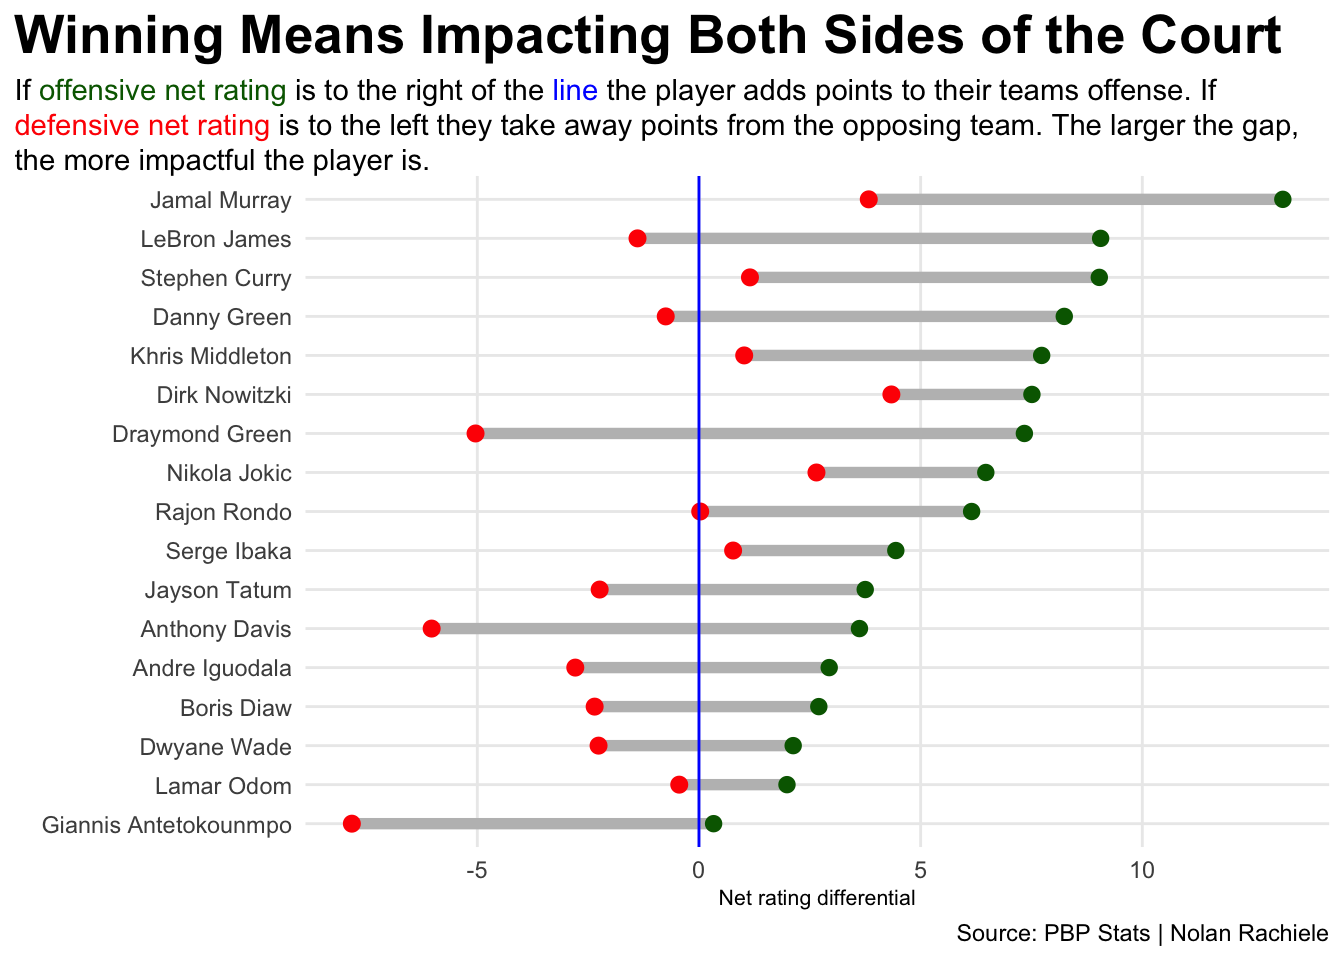
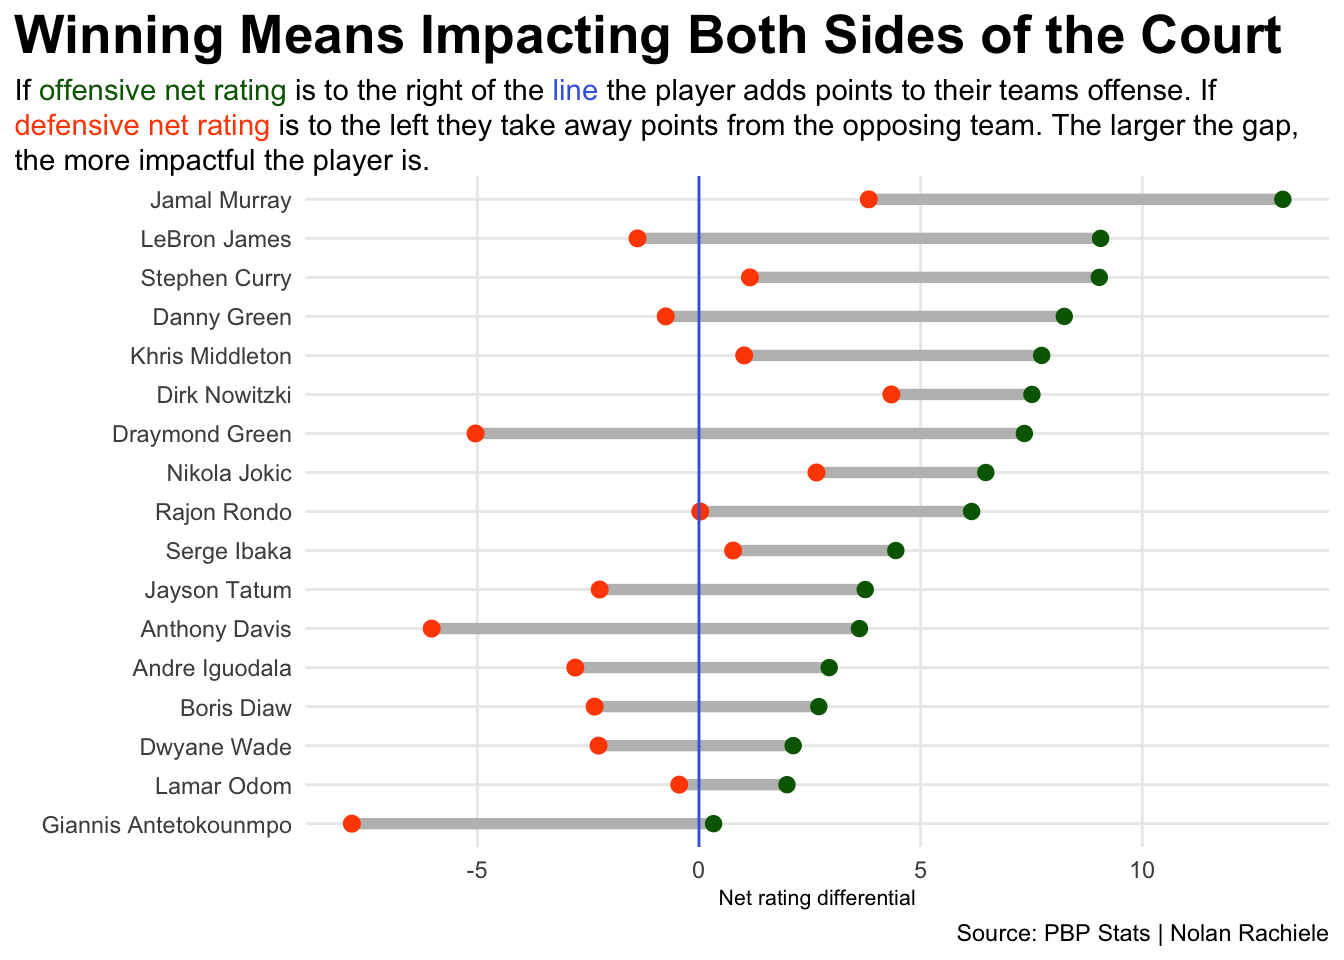
dafinalfinal

diff --git a/posts/the-biggest-playoff-risers-in-the-modern-era/index.html b/posts/the-biggest-playoff-risers-in-the-modern-era/index.html
@@ -276,7 +276,7 @@ pre > code.sourceCode > span > a:first-child::before { text-decoration: underlin
 <span id="cb1-82"><a href="#cb1-82" aria-hidden="true" tabindex="-1"></a>    <span class="fu">geom_vline</span>(<span class="at">xintercept =</span> <span class="dv">0</span>,<span class="at">color=</span><span class="st">"lightgrey"</span>) <span class="sc">+</span> </span>
 <span id="cb1-83"><a href="#cb1-83" aria-hidden="true" tabindex="-1"></a>  <span class="fu">geom_hline</span>(<span class="at">yintercept =</span> <span class="dv">0</span>,<span class="at">color=</span><span class="st">"lightgrey"</span>) <span class="sc">+</span></span>
 <span id="cb1-84"><a href="#cb1-84" aria-hidden="true" tabindex="-1"></a>  <span class="fu">labs</span>(</span>
-<span id="cb1-85"><a href="#cb1-85" aria-hidden="true" tabindex="-1"></a>    <span class="at">x=</span><span class="st">" Impact on the game"</span>,</span>
+<span id="cb1-85"><a href="#cb1-85" aria-hidden="true" tabindex="-1"></a>    <span class="at">x=</span><span class="st">" Impact on the Game"</span>,</span>
 <span id="cb1-86"><a href="#cb1-86" aria-hidden="true" tabindex="-1"></a>    <span class="at">y=</span><span class="st">"Usage Difference from Playoffs to Regular Season"</span>, </span>
 <span id="cb1-87"><a href="#cb1-87" aria-hidden="true" tabindex="-1"></a>    <span class="at">title=</span><span class="st">"What Players Increase Their Output in the Playoffs?"</span>, </span>
 <span id="cb1-88"><a href="#cb1-88" aria-hidden="true" tabindex="-1"></a>    <span class="at">subtitle=</span><span class="st">"The players who have seen the biggest production increase from the regular season to the post season</span><span class="sc">\n</span><span class="st">have resulted in deep playoff runs. "</span>, </span>
@@ -343,13 +343,13 @@ pre > code.sourceCode > span > a:first-child::before { text-decoration: underlin
 <span id="cb2-36"><a href="#cb2-36" aria-hidden="true" tabindex="-1"></a>    <span class="at">size =</span> <span class="dv">2</span>,</span>
 <span id="cb2-37"><a href="#cb2-37" aria-hidden="true" tabindex="-1"></a>    <span class="at">colour =</span> <span class="st">"grey"</span>,</span>
 <span id="cb2-38"><a href="#cb2-38" aria-hidden="true" tabindex="-1"></a>    <span class="at">colour_x =</span> <span class="st">"#006400"</span>,</span>
-<span id="cb2-39"><a href="#cb2-39" aria-hidden="true" tabindex="-1"></a>    <span class="at">colour_xend =</span> <span class="st">"red"</span>)<span class="sc">+</span></span>
-<span id="cb2-40"><a href="#cb2-40" aria-hidden="true" tabindex="-1"></a>   <span class="fu">geom_vline</span>(<span class="at">xintercept =</span> <span class="dv">0</span>,<span class="at">color=</span><span class="st">"blue"</span>)<span class="sc">+</span></span>
+<span id="cb2-39"><a href="#cb2-39" aria-hidden="true" tabindex="-1"></a>    <span class="at">colour_xend =</span> <span class="st">"#FF4D00"</span>)<span class="sc">+</span></span>
+<span id="cb2-40"><a href="#cb2-40" aria-hidden="true" tabindex="-1"></a>   <span class="fu">geom_vline</span>(<span class="at">xintercept =</span> <span class="dv">0</span>,<span class="at">color=</span><span class="st">"#4169e1"</span>)<span class="sc">+</span></span>
 <span id="cb2-41"><a href="#cb2-41" aria-hidden="true" tabindex="-1"></a>  <span class="fu">labs</span>(</span>
 <span id="cb2-42"><a href="#cb2-42" aria-hidden="true" tabindex="-1"></a>    <span class="at">x=</span><span class="st">"Net rating differential"</span>,</span>
 <span id="cb2-43"><a href="#cb2-43" aria-hidden="true" tabindex="-1"></a>    <span class="at">y=</span><span class="st">""</span>, </span>
 <span id="cb2-44"><a href="#cb2-44" aria-hidden="true" tabindex="-1"></a>    <span class="at">title=</span><span class="st">"Winning Means Impacting Both Sides of the Court"</span>, </span>
-<span id="cb2-45"><a href="#cb2-45" aria-hidden="true" tabindex="-1"></a>    <span class="at">subtitle =</span> <span class="st">"If &lt;span style = 'color:#006400;'&gt;offensive net rating&lt;/span&gt; is to the right of the &lt;span style = 'color:blue;'&gt;line&lt;/span&gt; the player adds points to their teams offense. If &lt;span style = 'color:red;'&gt;defensive net rating&lt;/span&gt; is to the left they take away points from the opposing team. The larger the gap, the more impactful the player is."</span>,</span>
+<span id="cb2-45"><a href="#cb2-45" aria-hidden="true" tabindex="-1"></a>    <span class="at">subtitle =</span> <span class="st">"If &lt;span style = 'color:#006400;'&gt;offensive net rating&lt;/span&gt; is to the right of the &lt;span style = 'color:#4169e1;'&gt;line&lt;/span&gt; the player adds points to their teams offense. If &lt;span style = 'color:#FF4D00;'&gt;defensive net rating&lt;/span&gt; is to the left they take away points from the opposing team. The larger the gap, the more impactful the player is."</span>,</span>
 <span id="cb2-46"><a href="#cb2-46" aria-hidden="true" tabindex="-1"></a>    <span class="at">caption=</span><span class="st">"Source: PBP Stats | Nolan Rachiele"</span></span>
 <span id="cb2-47"><a href="#cb2-47" aria-hidden="true" tabindex="-1"></a>    ) <span class="sc">+</span></span>
 <span id="cb2-48"><a href="#cb2-48" aria-hidden="true" tabindex="-1"></a>  <span class="fu">theme_minimal</span>() <span class="sc">+</span> </span>
@@ -420,15 +420,15 @@ pre > code.sourceCode > span > a:first-child::before { text-decoration: underlin
 <span id="cb3-42"><a href="#cb3-42" aria-hidden="true" tabindex="-1"></a>champ <span class="ot">&lt;-</span> top10 <span class="sc">|&gt;</span> <span class="fu">filter</span>(Player <span class="sc">%in%</span> <span class="fu">c</span>(<span class="st">"Draymond Green"</span>,<span class="st">"Stephen Curry"</span>,<span class="st">"Kobe Bryant"</span>,<span class="st">"Danny Green"</span>,<span class="st">"Dirk Nowitzki"</span>,<span class="st">"Lamar Odom"</span>,<span class="st">"Andre Iguodala"</span>))</span>
 <span id="cb3-43"><a href="#cb3-43" aria-hidden="true" tabindex="-1"></a></span>
 <span id="cb3-44"><a href="#cb3-44" aria-hidden="true" tabindex="-1"></a><span class="fu">ggplot</span>() <span class="sc">+</span> </span>
-<span id="cb3-45"><a href="#cb3-45" aria-hidden="true" tabindex="-1"></a>  <span class="fu">geom_bar</span>(<span class="at">data=</span>top10, <span class="fu">aes</span>(<span class="at">x=</span><span class="fu">reorder</span>(Player, Expectedwin), <span class="at">weight=</span>Expectedwin),<span class="at">fill=</span><span class="st">"darkgrey"</span>) <span class="sc">+</span></span>
+<span id="cb3-45"><a href="#cb3-45" aria-hidden="true" tabindex="-1"></a>  <span class="fu">geom_bar</span>(<span class="at">data=</span>top10, <span class="fu">aes</span>(<span class="at">x=</span><span class="fu">reorder</span>(Player, Expectedwin), <span class="at">weight=</span>Expectedwin),<span class="at">fill=</span><span class="st">"lightgrey"</span>) <span class="sc">+</span></span>
 <span id="cb3-46"><a href="#cb3-46" aria-hidden="true" tabindex="-1"></a>  <span class="fu">geom_bar</span>(<span class="at">data=</span>champ, <span class="fu">aes</span>(<span class="at">x=</span><span class="fu">reorder</span>(Player, Expectedwin), <span class="at">weight=</span>Expectedwin), <span class="at">fill=</span><span class="st">"#AA8833"</span>) <span class="sc">+</span></span>
 <span id="cb3-47"><a href="#cb3-47" aria-hidden="true" tabindex="-1"></a>  <span class="fu">coord_flip</span>()<span class="sc">+</span></span>
-<span id="cb3-48"><a href="#cb3-48" aria-hidden="true" tabindex="-1"></a>  <span class="fu">geom_hline</span>(<span class="at">yintercept =</span> <span class="fl">1.001567398</span>,<span class="at">color=</span><span class="st">"red"</span>) <span class="sc">+</span></span>
+<span id="cb3-48"><a href="#cb3-48" aria-hidden="true" tabindex="-1"></a>  <span class="fu">geom_hline</span>(<span class="at">yintercept =</span> <span class="fl">1.001567398</span>,<span class="at">color=</span><span class="st">"#E11218"</span>,<span class="at">size=</span><span class="fl">1.4</span>) <span class="sc">+</span></span>
 <span id="cb3-49"><a href="#cb3-49" aria-hidden="true" tabindex="-1"></a>  <span class="fu">labs</span>(</span>
 <span id="cb3-50"><a href="#cb3-50" aria-hidden="true" tabindex="-1"></a>    <span class="at">x=</span><span class="st">""</span>, </span>
 <span id="cb3-51"><a href="#cb3-51" aria-hidden="true" tabindex="-1"></a>    <span class="at">y=</span><span class="st">"Expected wins added"</span>, </span>
 <span id="cb3-52"><a href="#cb3-52" aria-hidden="true" tabindex="-1"></a>    <span class="at">title=</span><span class="st">"How do players net rating affect their playoff wins?"</span>, </span>
-<span id="cb3-53"><a href="#cb3-53" aria-hidden="true" tabindex="-1"></a>    <span class="at">subtitle=</span><span class="st">"The career wins added for each champion players playoff career. The &lt;span style = 'color:red;'&gt;average wins added&lt;/span&gt; for an NBA career is 1.0015.The players highlighted in gold are multiple time champions"</span>,</span>
+<span id="cb3-53"><a href="#cb3-53" aria-hidden="true" tabindex="-1"></a>    <span class="at">subtitle=</span><span class="st">"The career wins added for each champion players playoff career. The &lt;span style = 'color:#E11218;'&gt;average wins added&lt;/span&gt; for an NBA career is 1.0015.The players highlighted in gold are multiple time champions"</span>,</span>
 <span id="cb3-54"><a href="#cb3-54" aria-hidden="true" tabindex="-1"></a>    <span class="at">caption=</span><span class="st">"Source: Cleaning Glass | Nolan Rachiele"</span></span>
 <span id="cb3-55"><a href="#cb3-55" aria-hidden="true" tabindex="-1"></a>    ) <span class="sc">+</span></span>
 <span id="cb3-56"><a href="#cb3-56" aria-hidden="true" tabindex="-1"></a>  <span class="fu">theme_minimal</span>() <span class="sc">+</span> </span>

diff --git a/index.html b/index.html
@@ -200,7 +200,7 @@ window.Quarto = {
 
 <div class="quarto-listing quarto-listing-container-default" id="listing-listing">
 <div class="list quarto-listing-default">
-<div class="quarto-post image-right" data-index="0" data-categories="YmFza2V0YmFsbCUyQ25iYSUyQ3BsYXlvZmZzJTJDZmluYWxz" data-listing-date-sort="1744606800000" data-listing-file-modified-sort="1744667131810" data-listing-date-modified-sort="NaN" data-listing-reading-time-sort="8" data-listing-word-count-sort="1561">
+<div class="quarto-post image-right" data-index="0" data-categories="YmFza2V0YmFsbCUyQ25iYSUyQ3BsYXlvZmZzJTJDZmluYWxz" data-listing-date-sort="1744606800000" data-listing-file-modified-sort="1744667856595" data-listing-date-modified-sort="NaN" data-listing-reading-time-sort="8" data-listing-word-count-sort="1561">
 <div class="thumbnail">
 <p><a href="./posts/the-biggest-playoff-risers-in-the-modern-era/index.html" class="no-external"></a></p><a href="./posts/the-biggest-playoff-risers-in-the-modern-era/index.html" class="no-external">
 <p><img loading="lazy" src="./posts/the-biggest-playoff-risers-in-the-modern-era/image.png" class="thumbnail-image"></p>
